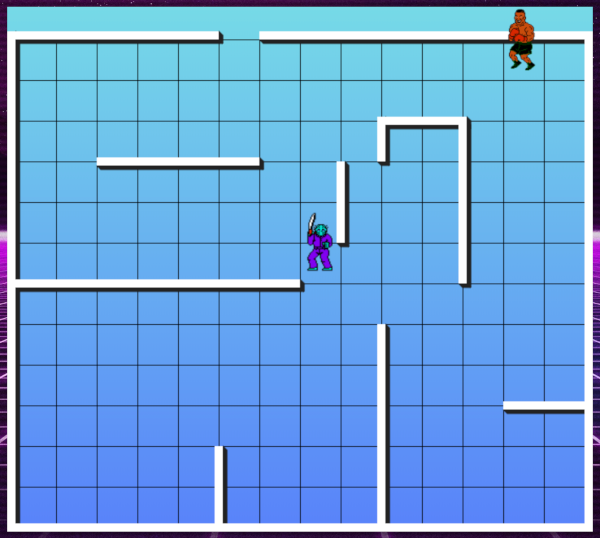
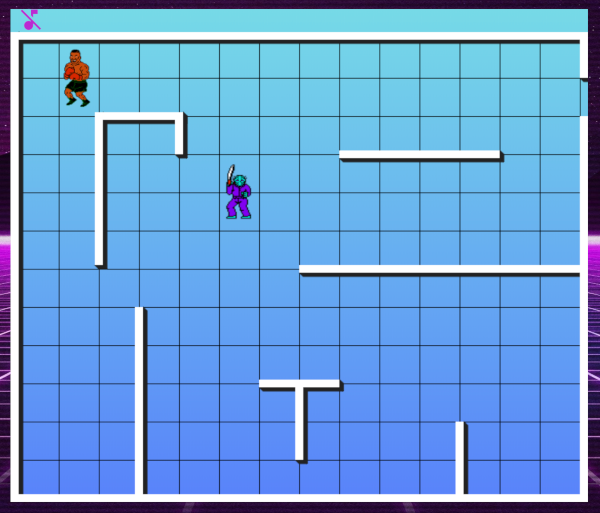
Rearrange walls on level one

Changed region(s): [[0.0, 0.0, 1.0, 1.0]]

diff --git a/dist/bundle.js b/dist/bundle.js
@@ -106,7 +106,7 @@ eval("__webpack_require__.r(__webpack_exports__);\n/* harmony import */ var _spr
 /***/ (function(module, __webpack_exports__, __webpack_require__) {
 
 "use strict";
[2 lines of base64/hex data omitted]
 
 /***/ }),
 

diff --git a/lib/display.js b/lib/display.js
@@ -41,28 +41,28 @@ class Display {
 export default Display;
 
 const LEVEL_ONE = [
-    {0: 0, 1: 30, 2: 10, 3: 60},
-    {0: 0, 1: 140, 2: 10, 3: 500},
-    {0: 0, 1: 30, 2: 720, 3: 10},
-    {0: 0, 1: 635, 2: 720, 3: 10},
-    {0: 710, 1: 30, 2: 10, 3: 610},  
-    {0: 255, 1: 540, 2: 10, 3: 105},
-    {0: 0, 1: 335, 2: 360, 3: 10},
-    {0: 555, 1: 140, 2: 10, 3: 200},
-    {0: 405, 1: 190, 2: 10, 3: 100},
-    {0: 460, 1: 135, 2: 105, 3: 10},
-    {0: 455, 1: 135, 2: 10, 3: 55},
-    {0: 455, 1: 390, 2: 10, 3: 255},
-    {0: 610, 1: 485, 2: 100, 3: 10},
-    {0: 110, 1: 185, 2: 200, 3: 10},
+    { 0: 0, 1: 30, 2: 10, 3: 610 },
+    { 0: 0, 1: 30, 2: 720, 3: 10 },
+    { 0: 0, 1: 635, 2: 720, 3: 10 },
+    { 0: 710, 1: 30, 2: 10, 3: 60 },
+    { 0: 710, 1: 140, 2: 10, 3: 500 },
+    { 0: 555, 1: 540, 2: 10, 3: 105 },
+    { 0: 360, 1: 335, 2: 360, 3: 10 },
+    { 0: 105, 1: 135, 2: 10, 3: 200 },
+    { 0: 355, 1: 490, 2: 10, 3: 100 },
+    { 0: 110, 1: 135, 2: 105, 3: 10 },
+    { 0: 205, 1: 135, 2: 10, 3: 55 },
+    { 0: 155, 1: 390, 2: 10, 3: 255 },
+    { 0: 310, 1: 485, 2: 100, 3: 10 },
+    { 0: 410, 1: 185, 2: 200, 3: 10 },
 ];
 
 const LEVEL_ONE_CHARS = [
-    {0: 610, 1: 50},
-    {0: 360, 1: 250}
+    {0: 60, 1: 50},
+    {0: 260, 1: 200}
 ];
 
-const LEVEL_ONE_EXIT = Object.freeze({0: 10, 1: 50});
+const LEVEL_ONE_EXIT = Object.freeze({0: 610, 1: 50});
 
 const LEVEL_TWO = [
     {0: 0, 1: 30, 2: 10, 3: 610},
